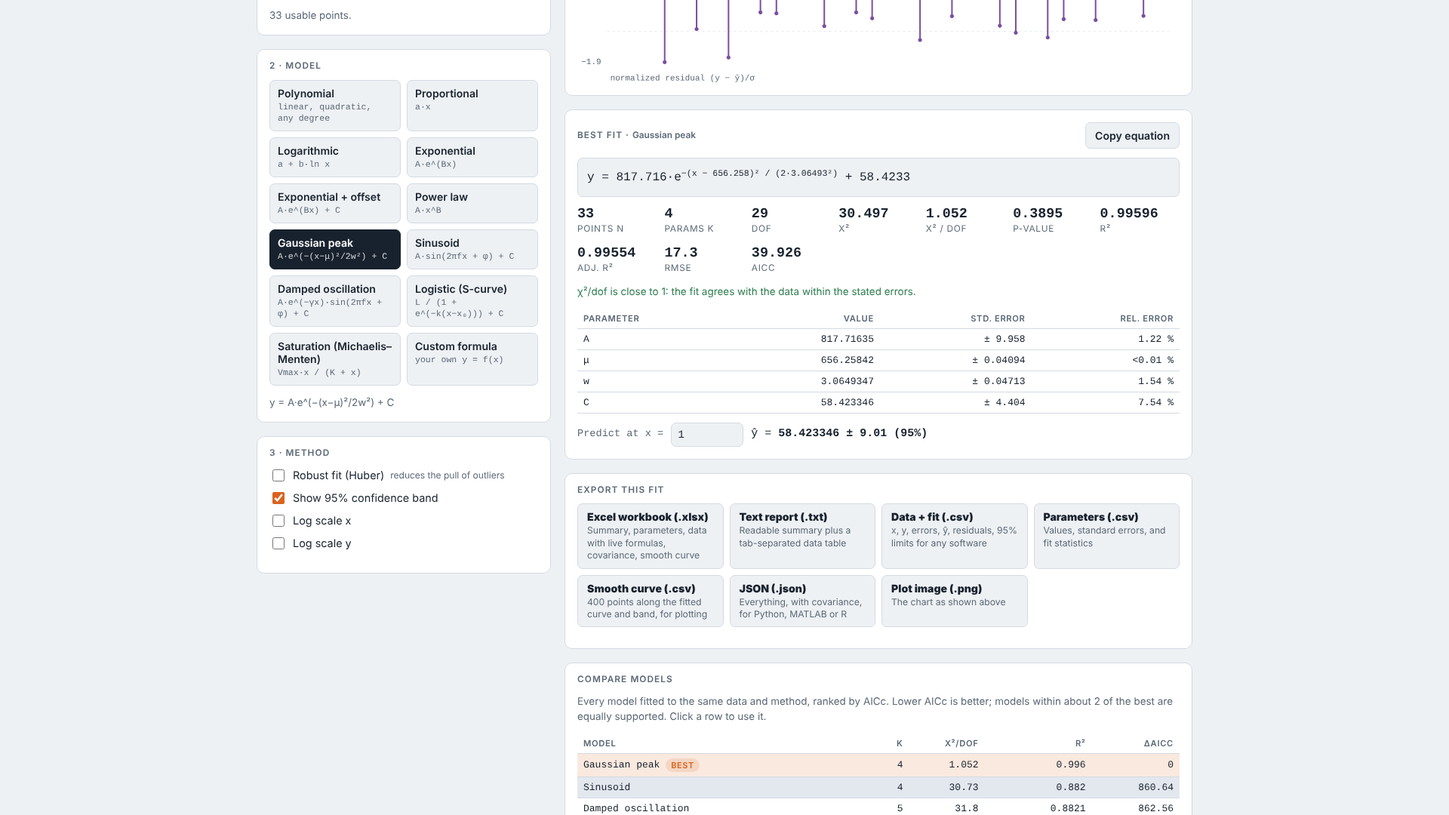
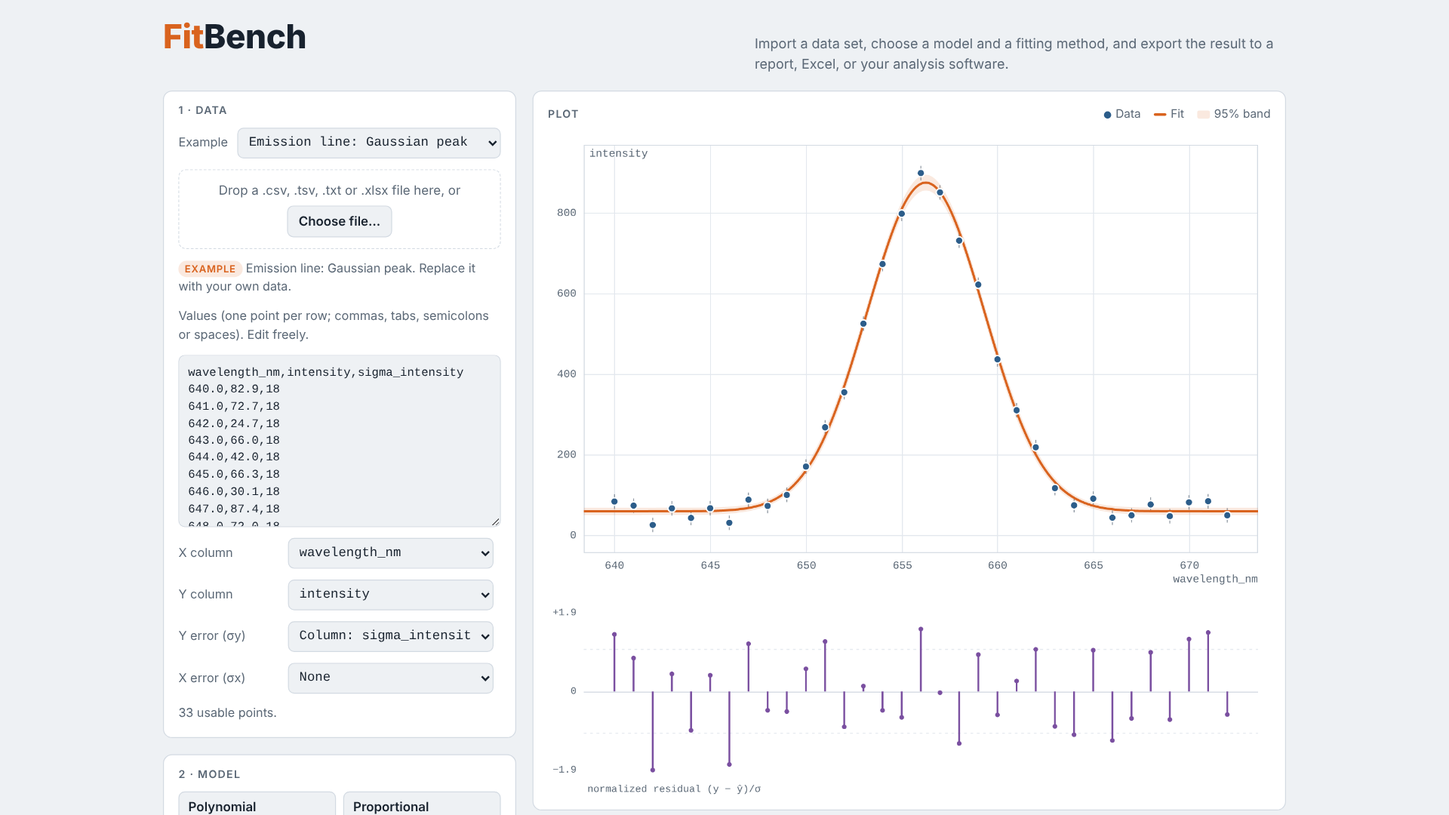
Add files via upload

diff --git a/index.html b/index.html
@@ -1,17 +1,17 @@
-<!DOCTYPE html>
-<!-- saved from url=(0087)file:///C:/Users/nicko/Downloads/App/FitBench-Store-Package/FitBench/website/index.html -->
-<html lang="en"><head><meta http-equiv="Content-Type" content="text/html; charset=UTF-8">
-
+<!doctype html>
+<html lang="en">
+<head>
+<meta charset="utf-8">
 <meta name="viewport" content="width=device-width,initial-scale=1,viewport-fit=cover">
-<title>Fit Bench</title>
+<title>FitBench</title>
 <meta name="description" content="Least-squares curve fitting: polynomial, exponential, power, Gaussian, sinusoidal, logistic, saturation and custom models, with exports to Excel, CSV, text and JSON.">
-<link rel="manifest" href="file:///C:/Users/nicko/Downloads/App/FitBench-Store-Package/FitBench/website/manifest.webmanifest">
+<link rel="manifest" href="manifest.webmanifest">
 <meta name="theme-color" content="#eef1f4" media="(prefers-color-scheme: light)">
 <meta name="theme-color" content="#12171d" media="(prefers-color-scheme: dark)">
-<link rel="icon" type="image/png" sizes="32x32" href="file:///C:/Users/nicko/Downloads/App/FitBench-Store-Package/FitBench/website/icons/favicon-32.png">
-<link rel="apple-touch-icon" href="file:///C:/Users/nicko/Downloads/App/FitBench-Store-Package/FitBench/website/icons/icon-192.png">
-<link rel="preconnect" href="https://fonts.googleapis.com/">
-<link rel="stylesheet" href="./index_files/css2">
+<link rel="icon" type="image/png" sizes="32x32" href="icons/favicon-32.png">
+<link rel="apple-touch-icon" href="icons/icon-192.png">
+<link rel="preconnect" href="https://fonts.googleapis.com">
+<link rel="stylesheet" href="https://fonts.googleapis.com/css2?family=Bricolage+Grotesque:opsz,wght@12..96,600;12..96,800&family=Instrument+Sans:wght@400;500;600&family=JetBrains+Mono:wght@400;600&display=swap">
 <style>
 /* Layout: instrument bench — data, model and method rail on the left; plot, results, exports and model comparison on the right; stacks on phones */
 :root{
@@ -126,7 +126,7 @@ footer a{color:inherit}
 
 <div class="wrap">
   <header>
-    <h1><em>FitBench</em></h1>
+    <h1><em>Fit</em>Bench</h1>
     <p class="sub">Import a data set, choose a model and a fitting method, and export the result to a report, Excel, or your analysis software.</p>
   </header>
 
@@ -136,50 +136,52 @@ footer a{color:inherit}
         <h2>1 · Data</h2>
         <div class="row">
           <label for="sample">Example</label>
-          <select id="sample" style="flex:1"><option value="">Choose an example…</option><option value="toss">Ball toss: height vs. time</option><option value="ohm">Resistor: voltage vs. current, one bad reading</option><option value="decay">Radioactive decay with background</option><option value="peak">Emission line: Gaussian peak</option><option value="spring">Damped spring oscillation</option><option value="enzyme">Enzyme kinetics: saturation</option><option value="growth">Population growth: logistic</option></select>
+          <select id="sample" style="flex:1"></select>
         </div>
-        <div class="drop" id="drop">Drop a .csv, .tsv, .txt or .xlsx file here, or <label class="filebtn" for="file" style="display:inline-block;margin-top:6px">Choose file…</label>
-          <input type="file" id="file" accept=".csv,.tsv,.txt,.dat,.xlsx,text/csv,text/plain">
+        <div class="drop" id="drop">
+          Drop a .csv, .tsv or .txt file here, or
+          <label class="filebtn" for="file" style="display:inline-block;margin-top:6px">Choose file…</label>
+          <input type="file" id="file" accept=".csv,.tsv,.txt,.dat,text/csv,text/plain">
         </div>
-        <p class="note" id="srcNote"><span class="tag">Example</span> Ball toss: height vs. time. Replace it with your own data.</p>
+        <p class="note" id="srcNote"></p>
         <label for="raw">Values (one point per row; commas, tabs, semicolons or spaces). Edit freely.</label>
         <textarea id="raw" spellcheck="false"></textarea>
-        <div class="field"><label for="xcol">X column</label><select id="xcol"><option value="0">time_s</option><option value="1">height_m</option><option value="2">sigma_m</option></select><span></span></div>
-        <div class="field"><label for="ycol">Y column</label><select id="ycol"><option value="0">time_s</option><option value="1">height_m</option><option value="2">sigma_m</option></select><span></span></div>
-        <div class="field"><label for="scol">Y error (σy)</label><select id="scol"><option value="none">None</option><option value="const">Same for all points…</option><option value="0">Column: time_s</option><option value="1">Column: height_m</option><option value="2">Column: sigma_m</option></select><input type="number" id="sconst" step="any" min="0" value="0.1" aria-label="Constant y uncertainty" hidden=""></div>
-        <div class="field"><label for="sxcol">X error (σx)</label><select id="sxcol"><option value="none">None</option><option value="const">Same for all points…</option><option value="0">Column: time_s</option><option value="1">Column: height_m</option><option value="2">Column: sigma_m</option></select><input type="number" id="sxconst" step="any" min="0" value="0.01" aria-label="Constant x uncertainty" hidden=""></div>
-        <p class="note" id="parseNote">14 usable points.</p>
+        <div class="field"><label for="xcol">X column</label><select id="xcol"></select><span></span></div>
+        <div class="field"><label for="ycol">Y column</label><select id="ycol"></select><span></span></div>
+        <div class="field"><label for="scol">Y error (σy)</label><select id="scol"></select><input type="number" id="sconst" step="any" min="0" value="0.1" aria-label="Constant y uncertainty" hidden></div>
+        <div class="field"><label for="sxcol">X error (σx)</label><select id="sxcol"></select><input type="number" id="sxconst" step="any" min="0" value="0.01" aria-label="Constant x uncertainty" hidden></div>
+        <p class="note" id="parseNote"></p>
       </section>
 
       <section class="panel">
         <h2>2 · Model</h2>
-        <div class="chips" id="chips" role="group" aria-label="Model"><button type="button" class="chip on" data-model="poly">Polynomial<span>linear, quadratic, any degree</span></button><button type="button" class="chip" data-model="prop">Proportional<span>a·x</span></button><button type="button" class="chip" data-model="log">Logarithmic<span>a + b·ln x</span></button><button type="button" class="chip" data-model="exp">Exponential<span>A·e^(Bx)</span></button><button type="button" class="chip" data-model="expc">Exponential + offset<span>A·e^(Bx) + C</span></button><button type="button" class="chip" data-model="power">Power law<span>A·x^B</span></button><button type="button" class="chip" data-model="gauss">Gaussian peak<span>A·e^(−(x−μ)²/2w²) + C</span></button><button type="button" class="chip" data-model="sine">Sinusoid<span>A·sin(2πfx + φ) + C</span></button><button type="button" class="chip" data-model="damped">Damped oscillation<span>A·e^(−γx)·sin(2πfx + φ) + C</span></button><button type="button" class="chip" data-model="logistic">Logistic (S-curve)<span>L / (1 + e^(−k(x−x₀))) + C</span></button><button type="button" class="chip" data-model="sat">Saturation (Michaelis–Menten)<span>Vmax·x / (K + x)</span></button><button type="button" class="chip" data-model="custom">Custom formula<span>your own y = f(x)</span></button><button type="button" class="chip on" data-model="poly">Polynomial<span>linear, quadratic, any degree</span></button><button type="button" class="chip" data-model="prop">Proportional<span>a·x</span></button><button type="button" class="chip" data-model="log">Logarithmic<span>a + b·ln x</span></button><button type="button" class="chip" data-model="exp">Exponential<span>A·e^(Bx)</span></button><button type="button" class="chip" data-model="expc">Exponential + offset<span>A·e^(Bx) + C</span></button><button type="button" class="chip" data-model="power">Power law<span>A·x^B</span></button><button type="button" class="chip" data-model="gauss">Gaussian peak<span>A·e^(−(x−μ)²/2w²) + C</span></button><button type="button" class="chip" data-model="sine">Sinusoid<span>A·sin(2πfx + φ) + C</span></button><button type="button" class="chip" data-model="damped">Damped oscillation<span>A·e^(−γx)·sin(2πfx + φ) + C</span></button><button type="button" class="chip" data-model="logistic">Logistic (S-curve)<span>L / (1 + e^(−k(x−x₀))) + C</span></button><button type="button" class="chip" data-model="sat">Saturation (Michaelis–Menten)<span>Vmax·x / (K + x)</span></button><button type="button" class="chip" data-model="custom">Custom formula<span>your own y = f(x)</span></button></div>
+        <div class="chips" id="chips" role="group" aria-label="Model"></div>
         <div class="sub-panel" id="polyBox">
           <div class="row" role="group" aria-label="Quick degree">
             <button type="button" data-d="1">Linear</button>
-            <button type="button" data-d="2" class="on">Quadratic</button>
+            <button type="button" data-d="2">Quadratic</button>
             <button type="button" data-d="3">Cubic</button>
           </div>
           <div class="row">
             <label for="deg">Degree</label>
-            <input type="number" id="deg" min="1" step="1" value="2" max="13">
-            <input type="range" id="degR" min="1" max="13" step="1" value="2" aria-label="Degree slider">
+            <input type="number" id="deg" min="1" step="1" value="2">
+            <input type="range" id="degR" min="1" max="10" step="1" value="2" aria-label="Degree slider">
           </div>
         </div>
-        <div class="sub-panel" id="customBox" hidden="">
+        <div class="sub-panel" id="customBox" hidden>
           <label for="cexpr">y = (use x, any parameter names, + − * / ^ and sin cos tan exp ln log sqrt abs pi)</label>
           <input type="text" id="cexpr" spellcheck="false" autocomplete="off" value="A*exp(-x/tau) + C">
           <p class="note">ln is the natural log and log is base 10. Set rough starting values for each parameter so the fit can find the right minimum.</p>
-          <div class="starts" id="cstarts"><label>A start<input type="number" step="any" id="start_A"></label><label>tau start<input type="number" step="any" id="start_tau"></label><label>C start<input type="number" step="any" id="start_C"></label></div>
+          <div class="starts" id="cstarts"></div>
         </div>
-        <p class="note" id="modelNote">y = a₂x² + a₁x + a₀. Any degree up to 13 works with this data.</p>
+        <p class="note" id="modelNote"></p>
       </section>
 
       <section class="panel">
         <h2>3 · Method</h2>
         <div class="checks">
           <label class="ck"><input type="checkbox" id="robust"> Robust fit (Huber) <small>reduces the pull of outliers</small></label>
-          <label class="ck"><input type="checkbox" id="band" checked=""> Show 95% confidence band</label>
+          <label class="ck"><input type="checkbox" id="band" checked> Show 95% confidence band</label>
           <label class="ck"><input type="checkbox" id="logx"> Log scale x</label>
           <label class="ck"><input type="checkbox" id="logy"> Log scale y</label>
         </div>
@@ -191,35 +193,35 @@ footer a{color:inherit}
       <section class="panel">
         <div class="row spread">
           <h2>Plot</h2>
-          <div class="legend"><span><i class="dot" style="background:var(--pt)"></i>Data</span><span id="lgRing" hidden=""><i class="ring"></i>Down-weighted</span><span><i style="background:var(--fit)"></i>Fit</span><span id="lgBand"><i class="band"></i>95% band</span></div>
+          <div class="legend"><span><i class="dot" style="background:var(--pt)"></i>Data</span><span id="lgRing" hidden><i class="ring"></i>Down-weighted</span><span><i style="background:var(--fit)"></i>Fit</span><span id="lgBand"><i class="band"></i>95% band</span></div>
         </div>
-        <div class="chartbox" id="box"><canvas id="cv" aria-label="Data and fitted curve" width="1596" height="998"></canvas><div class="tip" id="tip" hidden=""></div></div>
-        <div class="chartbox small"><canvas id="rv" aria-label="Residuals" width="1596" height="439"></canvas></div>
+        <div class="chartbox" id="box"><canvas id="cv" aria-label="Data and fitted curve"></canvas><div class="tip" id="tip" hidden></div></div>
+        <div class="chartbox small"><canvas id="rv" aria-label="Residuals"></canvas></div>
       </section>
 
       <section class="panel">
         <div class="row spread">
-          <h2>Best fit · <span id="mName" style="text-transform:none;letter-spacing:0">Quadratic</span></h2>
+          <h2>Best fit · <span id="mName" style="text-transform:none;letter-spacing:0"></span></h2>
           <button type="button" id="copyEq">Copy equation</button>
         </div>
-        <div class="eq" id="eq">y = −4.8956·x<sup>2</sup> + 9.18086·x + 1.51607</div>
+        <div class="eq" id="eq"></div>
         <div class="stats">
-          <div class="stat"><b id="sN">14</b><span>Points n</span></div>
-          <div class="stat"><b id="sK">3</b><span>Params k</span></div>
-          <div class="stat"><b id="sDof">11</b><span>dof</span></div>
-          <div class="stat"><b id="sChi">6.2184</b><span>χ²</span></div>
-          <div class="stat"><b id="sRed">0.5653</b><span>χ² / dof</span></div>
-          <div class="stat"><b id="sP">0.8584</b><span>p-value</span></div>
-          <div class="stat"><b id="sR2">0.99938</b><span>R²</span></div>
-          <div class="stat"><b id="sAdj">0.99927</b><span>Adj. R²</span></div>
-          <div class="stat"><b id="sRmse">0.03999</b><span>RMSE</span></div>
-          <div class="stat"><b id="sAic">14.618</b><span>AICc</span></div>
+          <div class="stat"><b id="sN">–</b><span>Points n</span></div>
+          <div class="stat"><b id="sK">–</b><span>Params k</span></div>
+          <div class="stat"><b id="sDof">–</b><span>dof</span></div>
+          <div class="stat"><b id="sChi">–</b><span>χ²</span></div>
+          <div class="stat"><b id="sRed">–</b><span>χ² / dof</span></div>
+          <div class="stat"><b id="sP">–</b><span>p-value</span></div>
+          <div class="stat"><b id="sR2">–</b><span>R²</span></div>
+          <div class="stat"><b id="sAdj">–</b><span>Adj. R²</span></div>
+          <div class="stat"><b id="sRmse">–</b><span>RMSE</span></div>
+          <div class="stat"><b id="sAic">–</b><span>AICc</span></div>
         </div>
-        <div class="notes" id="fitNotes"><p class="note good">χ²/dof is close to 1: the fit agrees with the data within the stated errors.</p></div>
-        <div class="tbl"><table id="ptbl"><thead><tr><th>Parameter</th><th>Value</th><th>Std. error</th><th>Rel. error</th></tr></thead><tbody><tr><td>a₀</td><td>1.5160714</td><td>± 0.04197</td><td>2.77 %</td></tr><tr><td>a₁</td><td>9.1808608</td><td>± 0.09995</td><td>1.09 %</td></tr><tr><td>a₂</td><td>-4.8956044</td><td>± 0.04942</td><td>1.01 %</td></tr></tbody></table></div>
+        <div class="notes" id="fitNotes"></div>
+        <div class="tbl"><table id="ptbl"><thead><tr><th>Parameter</th><th>Value</th><th>Std. error</th><th>Rel. error</th></tr></thead><tbody></tbody></table></div>
         <div class="pred">
           <label for="px">Predict at x =</label><input type="number" id="px" step="any" value="1">
-          <span>ŷ = <output id="py">5.8013278  ± 0.0531 (95%)</output></span>
+          <span>ŷ = <output id="py">–</output></span>
         </div>
       </section>
 
@@ -237,31 +239,31 @@ footer a{color:inherit}
         <p class="note" id="expNote" aria-live="polite"></p>
       </section>
 
-      <section class="panel" id="preview" hidden="">
+      <section class="panel" id="preview" hidden>
         <div class="row spread"><h2 id="pvTitle">Export preview</h2><div class="row"><button type="button" id="pvCopy">Copy all</button><button type="button" id="pvClose">Close</button></div></div>
-        <textarea id="pvText" readonly="" spellcheck="false"></textarea>
+        <textarea id="pvText" readonly spellcheck="false"></textarea>
       </section>
 
       <section class="panel">
         <h2>Compare models</h2>
         <p class="note">Every model fitted to the same data and method, ranked by AICc. Lower AICc is better; models within about 2 of the best are equally supported. Click a row to use it.</p>
-        <div class="tbl"><table id="cmp"><thead><tr><th>Model</th><th>k</th><th>χ²/dof</th><th>R²</th><th>ΔAICc</th></tr></thead><tbody><tr class="click cur" tabindex="0"><td>Quadratic <span class="tag">best</span></td><td>3</td><td>0.5653</td><td>0.9994</td><td>0</td></tr><tr class="click" tabindex="0"><td>Cubic</td><td>4</td><td>0.6119</td><td>0.9994</td><td>3.95</td></tr><tr class="click" tabindex="0"><td>Gaussian peak</td><td>4</td><td>0.6226</td><td>0.9994</td><td>4.05</td></tr><tr class="click" tabindex="0"><td>Sinusoid</td><td>4</td><td>0.6227</td><td>0.9994</td><td>4.05</td></tr><tr class="click" tabindex="0"><td>Polynomial, degree 4</td><td>5</td><td>0.6695</td><td>0.9994</td><td>8.91</td></tr><tr class="click" tabindex="0"><td>Damped oscillation</td><td>5</td><td>0.6811</td><td>0.9994</td><td>9.01</td></tr><tr class="click" tabindex="0"><td>Logistic (S-curve)</td><td>4</td><td>522.8</td><td>0.4777</td><td>5225.98</td></tr><tr class="click" tabindex="0"><td>Exponential + offset</td><td>3</td><td>494.9</td><td>0.4561</td><td>5438.18</td></tr><tr class="click" tabindex="0"><td>Saturation (Michaelis–Menten)</td><td>2</td><td>720.8</td><td>0.1359</td><td>8640.35</td></tr><tr class="click" tabindex="0"><td>Linear</td><td>2</td><td>818.4</td><td>0.01898</td><td>9811.15</td></tr><tr class="click" tabindex="0"><td>Custom formula</td><td>3</td><td>892.8</td><td>0.01898</td><td>9814.47</td></tr><tr class="click" tabindex="0"><td>Exponential</td><td>2</td><td>822.5</td><td>0.01405</td><td>9860.50</td></tr><tr class="click" tabindex="0"><td>Proportional</td><td>1</td><td>2350</td><td>-2.051</td><td>30532.29</td></tr><tr class="click na" tabindex="0"><td>Logarithmic<br><small>needs every x &gt; 0</small></td><td>2</td><td>–</td><td>–</td><td>–</td></tr><tr class="click na" tabindex="0"><td>Power law<br><small>needs every x &gt; 0</small></td><td>2</td><td>–</td><td>–</td><td>–</td></tr></tbody></table></div>
+        <div class="tbl"><table id="cmp"><thead><tr><th>Model</th><th>k</th><th>χ²/dof</th><th>R²</th><th>ΔAICc</th></tr></thead><tbody></tbody></table></div>
       </section>
     </div>
   </div>
   <footer>
-    <span>FitBench <span id="appVer">v1.0.0</span> · works offline</span>
-    <span><a href="file:///C:/Users/nicko/Downloads/App/FitBench-Store-Package/FitBench/website/privacy.html">Privacy</a></span>
+    <span>FitBench <span id="appVer"></span> · works offline</span>
+    <span><a href="privacy.html">Privacy</a></span>
   </footer>
 </div>
-<div class="update" id="updateBar" role="status" hidden="">
-  <span>A new version of Fit Bench is ready.</span>
+<div class="update" id="updateBar" role="status" hidden>
+  <span>A new version of FitBench is ready.</span>
   <button type="button" id="updNow">Restart now</button>
   <button type="button" class="ghost" id="updLater">Later</button>
 </div>
 
-<script src="./index_files/version.js"></script>
-<script src="./index_files/xlsx-lite.js"></script>
+<script src="version.js"></script>
+<script src="xlsx-lite.js"></script>
 <script>
 "use strict";
 const $ = id => document.getElementById(id);
@@ -1076,7 +1078,7 @@ function summaryRows(f){
     ['Chi-squared', f.chi2], ['Reduced chi-squared', f.red], ['p-value', f.pval],
     ['R-squared', f.r2], ['Adjusted R-squared', f.adj], ['RMSE', f.rmse], ['SSE', f.sse],
     ['AICc', f.aicc], ['BIC', f.bic], ['Down-weighted points', f.robust?f.downweighted:'n/a'],
-    ['Data source', state.source.replace(/<[^>]+>/g,'')], ['Generated', new Date().toISOString()], ['Tool', 'Least-Squares Fit Bench']
+    ['Data source', state.source.replace(/<[^>]+>/g,'')], ['Generated', new Date().toISOString()], ['Tool', 'FitBench']
   ];
 }
 function dataCols(f){
@@ -1125,7 +1127,7 @@ function buildJSON(f){
   const corr=f.cov?f.cov.map((r,i)=>r.map((v,j)=>v/Math.sqrt(f.cov[i][i]*f.cov[j][j]))):null;
   const c=dataCols(f);
   return JSON.stringify({
-    tool:'Least-Squares Fit Bench', generated:new Date().toISOString(),
+    tool:'FitBench', generated:new Date().toISOString(),
     model:{key:f.spec.key, name:f.label, formula:formulaFor(f.spec), degree:f.spec.deg??null, equation:eqFor(f,TX), custom_expression:f.spec.key==='custom'?CUSTOM.src:null},
     method:methodText(f), parameter_errors_scaled_by_reduced_chi2:f.scaled,
     columns:{x:colName(+$('xcol').value), y:colName(+$('ycol').value), sigma_y:sigmaDesc('y'), sigma_x:sigmaDesc('x')},
@@ -1139,7 +1141,7 @@ function buildJSON(f){
 function buildXLSX(f){
   const clean=v=>typeof v==='number'&&!isFinite(v)?'':v;
   const sheets=[];
-  sheets.push({name:'Summary',widths:[24,80],rows:[['Least-Squares Fit Bench',''],...summaryRows(f).map(([k,v])=>[k,clean(v)])]});
+  sheets.push({name:'Summary',widths:[24,80],rows:[['FitBench',''],...summaryRows(f).map(([k,v])=>[k,clean(v)])]});
   sheets.push({name:'Parameters',headerRow:true,widths:[12,22,18,16],rows:[['Parameter','Value','Std. error','Rel. error (%)'],
     ...f.names.map((n,i)=>[n,f.p[i],clean(f.errs[i]),isFinite(f.errs[i])&&f.p[i]?Math.abs(f.errs[i]/f.p[i])*100:''])]});
   const c=dataCols(f), fitCol=c.findIndex(x=>x[0]==='y_fit'), resCol=c.findIndex(x=>x[0]==='residual');
@@ -1188,7 +1190,8 @@ $('pvCopy').addEventListener('click',async()=>{
 /* =====================================================================
    Wiring
    ===================================================================== */
-// model chips
+// model chips (the box is emptied first so the buttons can never appear twice)
+$('chips').replaceChildren();
 for(const key of ORDER){
   const m=MODELS[key], b=document.createElement('button');
   b.type='button'; b.className='chip'; b.dataset.model=key;
@@ -1294,6 +1297,5 @@ if('serviceWorker' in navigator && location.protocol!=='file:'){
   }).catch(()=>{});
 }
 </script>
-
-
-</body></html>
+</body>
+</html>

diff --git a/privacy.html b/privacy.html
@@ -1,10 +1,10 @@
-<!DOCTYPE html>
-<!-- saved from url=(0089)file:///C:/Users/nicko/Downloads/App/FitBench-Store-Package/FitBench/website/privacy.html -->
-<html lang="en"><head><meta http-equiv="Content-Type" content="text/html; charset=UTF-8">
-
+<!doctype html>
+<html lang="en">
+<head>
+<meta charset="utf-8">
 <meta name="viewport" content="width=device-width,initial-scale=1">
-<title>Fit Bench Privacy Policy</title>
-<link rel="icon" type="image/png" sizes="32x32" href="file:///C:/Users/nicko/Downloads/App/FitBench-Store-Package/FitBench/website/icons/favicon-32.png">
+<title>FitBench Privacy Policy</title>
+<link rel="icon" type="image/png" sizes="32x32" href="icons/favicon-32.png">
 <style>
 :root{--bg:#eef1f4;--panel:#fff;--ink:#18222e;--muted:#5b6876;--line:#d3dae2;--accent:#d9631e}
 @media (prefers-color-scheme: dark){:root{--bg:#12171d;--panel:#1a2129;--ink:#e4e9ef;--muted:#93a0ad;--line:#2c3743;--accent:#f08a4b;color-scheme:dark}}
@@ -39,8 +39,7 @@ a{color:var(--accent)}
   <h2>Contact</h2>
   <p>Questions about this policy can be sent to the developer through the contact details on the FitBench page in the Microsoft Store.</p>
 
-  <p><a href="file:///C:/Users/nicko/Downloads/App/FitBench-Store-Package/FitBench/website/">Back to FitBench</a></p>
+  <p><a href="./">Back to FitBench</a></p>
 </main>
-
-
-</body></html>
+</body>
+</html>

diff --git a/xlsx-lite.js b/xlsx-lite.js
@@ -1,4 +1,4 @@
-/* xlsx-lite: a small, dependency-free Excel (.xlsx) writer and reader for Fit Bench.
+/* xlsx-lite: a small, dependency-free Excel (.xlsx) writer and reader for FitBench.
    Writer: builds a valid workbook (numbers, text, formulas, bold header row, column widths).
    Reader: returns the first worksheet as rows of strings (uses the browser's built-in deflate). */
 (function (global) {

diff --git a/sw.js b/sw.js
@@ -1,4 +1,4 @@
-// Fit Bench service worker: makes the app work offline and delivers updates.
+// FitBench service worker: makes the app work offline and delivers updates.
 // You never need to edit this file. To publish an update, change the number in version.js.
 importScripts("version.js");
 

diff --git a/README.md b/README.md
@@ -2,24 +2,21 @@
 
 Least-squares curve fitting that runs in your browser or as an installed Windows app.
 
-* Models: polynomial (any degree), proportional, logarithmic, exponential (with or without offset), power law, Gaussian peak, sinusoid, damped oscillation, logistic, saturation (Michaelis–Menten), and custom formulas
-* Weighted fitting with y errors, x errors through effective variance, and a robust (Huber) mode for outliers
-* Parameter uncertainties, χ², reduced χ², p-value, R², AICc, a 95% confidence band, and a model comparison table
-* Import CSV, TSV, TXT and Excel (.xlsx) files
-* Export to Excel (with live formulas), CSV, a text report, JSON, or a PNG of the plot
-* Works offline once opened
+- Models: polynomial (any degree), proportional, logarithmic, exponential (with or without offset), power law, Gaussian peak, sinusoid, damped oscillation, logistic, saturation (Michaelis–Menten), and custom formulas
+- Weighted fitting with y errors, x errors through effective variance, and a robust (Huber) mode for outliers
+- Parameter uncertainties, χ², reduced χ², p-value, R², AICc, a 95% confidence band, and a model comparison table
+- Import CSV, TSV, TXT and Excel (.xlsx) files
+- Export to Excel (with live formulas), CSV, a text report, JSON, or a PNG of the plot
+- Works offline once opened
 
 ## Files
 
-|File|What it is|
-|-|-|
-|`index.html`|The app|
-|`version.js`|The version number. **Raise it every time you upload an update.**|
-|`sw.js`|Offline support and update delivery (no need to edit)|
-|`xlsx-lite.js`|Excel import and export|
-|`manifest.webmanifest`|App name, icons and file types for Windows and the Microsoft Store|
-|`privacy.html`|Privacy policy (linked from the Store listing)|
-|`icons/`, `screenshots/`|App icons and Store screenshots|
-
-
-
+| File | What it is |
+| --- | --- |
+| `index.html` | The app |
+| `version.js` | The version number. **Raise it every time you upload an update.** |
+| `sw.js` | Offline support and update delivery (no need to edit) |
+| `xlsx-lite.js` | Excel import and export |
+| `manifest.webmanifest` | App name, icons and file types for Windows and the Microsoft Store |
+| `privacy.html` | Privacy policy (linked from the Store listing) |
+| `icons/`, `screenshots/` | App icons and Store screenshots |
